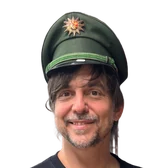
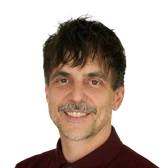
Richtiges Portrait + Hilfe-Block in der Kommunen-Box
Der Platzhalter (Ganzkoerper-Freisteller) ist restlos raus: dieselbe Datei
traegt jetzt das professionelle Portrait aus dem Portfolio, quadratisch ums
Gesicht zugeschnitten mit leichten Schultern — das wirkt bei runden Avataren
natuerlicher als ein reiner Kopf. Kopfmasse vorher am Alphakanal vermessen
statt geschaetzt. Wieder 168 px = 3x der 56-px-Darstellung, WebP mit Alpha:
6 KB.

Aufbau in der Kommunen-Box wie vorgegeben: unter dem Haupt-Knopf, abgesetzt
durch feine Linie und Abstand, ein eigener Block "Sie brauchen Hilfe bei der
Einrichtung?" mit rundem Foto, Namen und dem Textlink "Kontakt aufnehmen",
der das Modal oeffnet (Thema und Text weiterhin vorbelegt). Bewusst Textlink
statt zweitem Knopf — selbst einbetten bleibt die primaere Handlung.

Der bisherige separate Kontakt-Link in der Box geht darin auf; im Browser
geprueft, dass nur noch EIN Kontakt-Einstieg in der Box existiert.

Die Zusage-Zeile faellt in der Box weg (Foto plus Name sagen das bereits) und
bleibt dort, wo sie Information traegt: im Modal die Antwortzeit, auf der
Kontaktseite "Ich lese und beantworte jede Nachricht selbst".

diff --git a/components/atlas/GemeindeKontaktButton.tsx b/components/atlas/GemeindeKontaktButton.tsx
@@ -1,11 +1,14 @@
 "use client";
 
-// Der Kontakt-Weg im Lead-Kasten einer Gemeinde-Seite. Öffnet das Formular als
-// Modal auf derselben Seite, statt auf /kontakt zu navigieren: die Zahlen, wegen
-// derer jemand schreibt, bleiben stehen — und es entsteht gar kein "Wie komme
-// ich hier wieder weg"-Problem.
+// Der Hilfe-Weg im Lead-Kasten einer Gemeinde-Seite: Porträt, Name und ein
+// Textlink, der das Kontaktformular als Modal auf derselben Seite öffnet, statt
+// auf /kontakt zu navigieren — die Zahlen, wegen derer jemand schreibt, bleiben
+// stehen, und es entsteht gar kein "Wie komme ich hier wieder weg"-Problem.
 //
-// Nur dieser Knopf ist ein Client-Component, der Kasten drumherum bleibt
+// Bewusst ein Textlink, kein zweiter Knopf: Primär ist "selbst einbetten", das
+// hier ist das Angebot für alle, die es nicht selbst machen wollen.
+//
+// Nur dieser Teil ist ein Client-Component, der Kasten drumherum bleibt
 // serverseitig gerendert.
 
 import { useState } from "react";
@@ -19,9 +22,13 @@ export default function GemeindeKontaktButton({ name }: { name: string }) {
 
   return (
     <>
-      <button type="button" onClick={() => setOpen(true)} style={S.trigger}>
-        Wir richten es Ihnen ein — Kontakt aufnehmen
-      </button>
+      {/* Porträt + Name sagen bereits "hier antwortet ein Mensch" — eine
+          zusätzliche Zusage darunter wäre an dieser Stelle nur Text. */}
+      <ContactPerson>
+        <button type="button" onClick={() => setOpen(true)} style={S.trigger}>
+          Kontakt aufnehmen
+        </button>
+      </ContactPerson>
 
       <Modal
         open={open}
@@ -47,6 +54,7 @@ export default function GemeindeKontaktButton({ name }: { name: string }) {
 
 const S: Record<string, React.CSSProperties> = {
   trigger: {
+    display: "block",
     fontFamily: "inherit",
     fontSize: 13,
     color: v("--color-accent"),
@@ -54,7 +62,10 @@ const S: Record<string, React.CSSProperties> = {
     background: "none",
     border: "none",
     padding: 0,
+    marginTop: 2,
     cursor: "pointer",
     textAlign: "left",
+    textDecoration: "underline",
+    textUnderlineOffset: 3,
   },
 };

diff --git a/components/atlas/GemeindeEmbedBox.tsx b/components/atlas/GemeindeEmbedBox.tsx
@@ -40,6 +40,14 @@ export default function GemeindeEmbedBox({ name, ags }: { name: string; ags: str
             Widgets ansehen, anpassen &amp; einbetten <IconArrowRight size={16} />
           </span>
         </a>
+      </div>
+
+      {/* Sekundärer Weg, deutlich abgesetzt vom Haupt-Knopf: Wer es nicht
+          selbst einbetten will, findet hier ein Gesicht statt eines Formulars.
+          Genau hier entscheidet eine Rathaus- oder Pressestelle, ob sie
+          schreibt. Bewusst nur EIN Kontakt-Einstieg in der Box. */}
+      <div style={S.help}>
+        <p style={S.helpTitle}>Sie brauchen Hilfe bei der Einrichtung?</p>
         <GemeindeKontaktButton name={name} />
       </div>
     </div>
@@ -54,6 +62,17 @@ const S: Record<string, React.CSSProperties> = {
   },
   h2: { fontSize: 16, fontWeight: 700, margin: "0 0 6px" },
   sub: { fontSize: 13, color: v("--color-text-secondary"), lineHeight: 1.6, margin: "0 0 12px" },
+  help: {
+    marginTop: 18,
+    paddingTop: 16,
+    borderTop: `1px solid ${v("--color-border")}`,
+  },
+  helpTitle: {
+    fontSize: 13,
+    fontWeight: 700,
+    color: v("--color-text-primary"),
+    margin: "0 0 10px",
+  },
   actions: { display: "flex", flexWrap: "wrap", alignItems: "center", gap: "10px 16px", marginTop: 16 },
   cta: {
     display: "inline-block",

diff --git a/components/ContactPerson.tsx b/components/ContactPerson.tsx
@@ -17,13 +17,22 @@ import { v } from "../lib/theme";
  * eine dezente Füllung aus dem Theme — sonst franst die runde Kante auf hellem
  * wie dunklem Grund aus.
  */
-export default function ContactPerson({ note }: { note: string }) {
+export default function ContactPerson({
+  note,
+  children,
+}: {
+  /** Kurze Zusage unter dem Namen. */
+  note?: string;
+  /** Alternativ zur Zusage: was unter dem Namen stehen soll, z. B. ein Link. */
+  children?: React.ReactNode;
+}) {
   return (
     <span style={S.row}>
       <img src="/sebastian-schaeder.webp" width={56} height={56} alt="" style={S.avatar} />
       <span style={S.text}>
         <strong style={S.name}>Sebastian Schäder</strong>
         {note}
+        {children}
       </span>
     </span>
   );